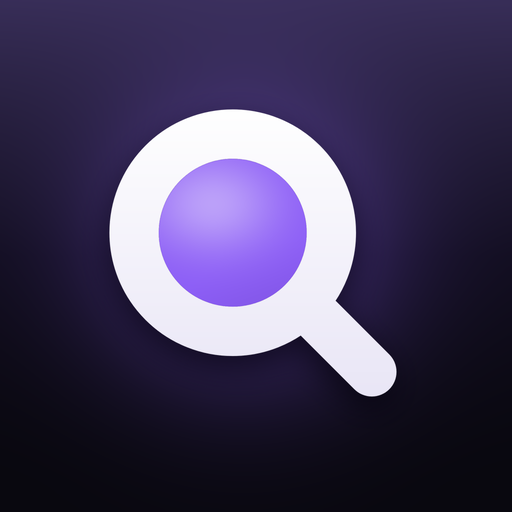
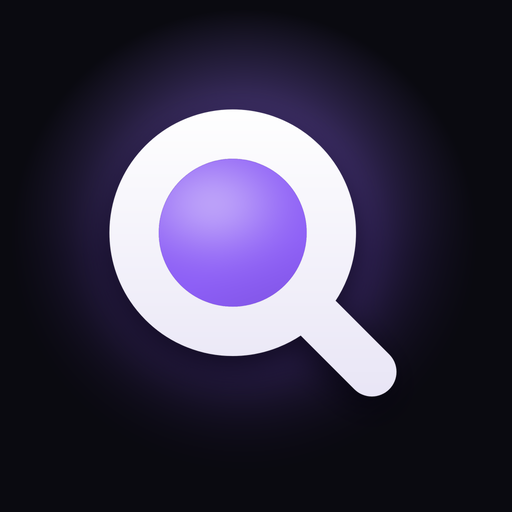
Uygulama açılışı: açılış ekranında kare yok, her kurulumda tanıtım + il seçimi, açılışta takılma giderildi
Claude-Session: https://claude.ai/code/session_01DgUC4EpyTiTxeH42sTdKUw

Changed region(s): [[0.0, 0.0, 1.0, 0.5]]

diff --git a/app.js b/app.js
@@ -24,7 +24,9 @@ const BIG = /congresium|cso ada|jolly joker|if performance|ankara arena|bilkent|
 const PRICE_MAX_H = 36;
 
 /* ---------- Tarih yardımcıları (İstanbul saati) ---------- */
-const nowIST = () => { const p = Object.fromEntries(new Intl.DateTimeFormat("en-CA", { timeZone: "Europe/Istanbul", year: "numeric", month: "2-digit", day: "2-digit", hour: "2-digit", minute: "2-digit", hourCycle: "h23" }).formatToParts(new Date()).map((x) => [x.type, x.value])); return { d: `${p.year}-${p.month}-${p.day}`, hm: `${p.hour}:${p.minute}` }; };
+// saat biçimleyici bir kez kurulur (her çağrıda kurmak açılışta takılma yapıyordu)
+const ISTF = new Intl.DateTimeFormat("en-CA", { timeZone: "Europe/Istanbul", year: "numeric", month: "2-digit", day: "2-digit", hour: "2-digit", minute: "2-digit", hourCycle: "h23" });
+const nowIST = () => { const p = Object.fromEntries(ISTF.formatToParts(new Date()).map((x) => [x.type, x.value])); return { d: `${p.year}-${p.month}-${p.day}`, hm: `${p.hour}:${p.minute}` }; };
 const pd = (s) => new Date(s + "T12:00:00");
 const addD = (s, n) => { const d = pd(s); d.setDate(d.getDate() + n); return d.toISOString().slice(0, 10); };
 const dShort = (s) => { const d = pd(s); return `${GUNK[d.getDay()]} ${d.getDate()} ${AYK[d.getMonth()]}`; };
@@ -59,18 +61,19 @@ const jget = (u) => fetch(u, { cache: "no-cache" }).then((r) => (r.ok ? r.json()
 async function boot() {
   const [cx, top] = await Promise.all([jget("data/cities.json"), jget("data/one-cikan.json")]);
   if (cx?.cities) CIX = cx.cities; DATA.top = top?.events || []; DATA.boot = true; DATA.venues = DATA.venues || {};
-  jget("data/venues.json").then((vn) => { if (vn) DATA.venues = vn.venues || vn; });
-  setTimeout(() => venueTr(), 2500);
-  // kayıtlı il varsa verisini hemen arkada indirmeye başla (devam edince hazır olsun)
-  const sv = store.get("nvny-city"); if (sv && CITIES.find((c) => c.id === sv && c.live)) prefetch(sv);
+  // Açılışta yalnızca il listesi ve öne çıkanlar; mekân konumları ve il verisi gerektiğinde (il açılınca) iner — açılış takılmasın.
+  const sv = store.get("nvny-city"), first = (standalone && !store.get("nvny-app-ilk")) || !store.get("nvny-intro");
+  if (!first && sv && CITIES.find((c) => c.id === sv && c.live)) prefetch(sv);
 }
 /* Ankara: data/events.json + films.json + buzz.json · diğer iller: data/c/<il>.json + data/c/<il>-films.json */
 const cityLoads = {}, pre = {};
 function prefetch(city) { if (pre[city] || DATA.city === city) return; const ank = city === "ankara";
   pre[city] = Promise.all([jget(ank ? "data/events.json" : `data/c/${city}.json`), jget(ank ? "data/films.json" : `data/c/${city}-films.json`), ank ? jget("data/buzz.json") : null]); }
 function loadCity(city) { return (cityLoads[city] ||= load(city).catch((e) => { delete cityLoads[city]; throw e; })); }
+let venP = null;
 async function load(city) {
   const ank = city === "ankara";
+  if (ank) venP ||= jget("data/venues.json").then((vn) => { if (vn) DATA.venues = vn.venues || vn; }); else venueTr();
   prefetch(city); const [ev, fl, bz] = await pre[city]; delete pre[city];
   DATA.base = ev?.baseline; DATA.updated = ev?.updated; DATA.films = fl; DATA.buzz = bz || {};
   const fresh = (x) => !!(x.price && !x.est && x.seen && x.seen !== DATA.base && (Date.now() - Date.parse(x.seen)) / 36e5 <= PRICE_MAX_H);
@@ -222,8 +225,10 @@ function storyInit() {
 let ACX = null, lastTick = 0, NOISE = null;
 const sesOn = () => store.get("nvny-ses") !== "0";
 const ac = () => { ACX ||= new (window.AudioContext || window.webkitAudioContext)(); if (ACX.state === "suspended") ACX.resume?.()?.catch?.(() => {}); return ACX; };
+let acted = false; // ses motoru ancak ilk dokunuştan sonra kurulur (açılışta kurmak takılma yapıyordu; tarayıcı zaten çaldırmaz)
+["pointerdown", "keydown", "touchstart"].forEach((n) => addEventListener(n, () => { acted = true; }, { once: true, passive: true, capture: true }));
 function blip({ f = 2200, f2 = 0, body = 0, vol = .1, dur = .014, noise = .5, hp = 2500 } = {}) {
-  if (!sesOn()) return;
+  if (!sesOn() || !acted) return;
   try {
     const A = ac(), t = A.currentTime, out = A.createGain(); out.gain.value = vol; out.connect(A.destination);
     // 1) metalik çıt: süzülmüş çok kısa hışırtı (ilk 3 ms)
@@ -297,7 +302,7 @@ function viewCities() {
     }
     if (n !== cur && lis[n]) { lis[cur]?.classList.remove("on"); cur = Math.max(0, Math.min(n, lis.length - 1)); lis[cur].classList.add("on"); wl.setAttribute("aria-activedescendant", lis[cur].id);
       const c = L[cur]; msg.hidden = true; if (drawn) tick();
-      clearTimeout(pfT); if (c?.live) pfT = setTimeout(() => prefetch(c.id), 450); }
+      clearTimeout(pfT); if (c?.live && acted) pfT = setTimeout(() => prefetch(c.id), 450); } // kullanıcı çarka dokunmadan veri inmez (açılış akıcı)
   };
   const draw = (list) => { L = list; cur = -1; drawn = false;
     wl.innerHTML = list.map((c, k) => `<li id="w${k}" role="option" class="${c.live ? "" : "soon"}"><b>${esc(c.name)}</b></li>`).join("");
@@ -313,7 +318,9 @@ function viewCities() {
   ok.addEventListener("click", () => go(L[cur]));
   V.addEventListener("click", (ev) => { const a = ev.target.closest("[data-city]"); if (a) store.set("nvny-city", a.dataset.city); });
   const idle = window.requestIdleCallback || ((f) => setTimeout(f, 120));
-  idle(() => { const el = $("#csl"); if (!el) return; el.outerHTML = `${T.length ? `<h2 class="cs-t">Türkiye'de bu hafta öne çıkanlar</h2>${stories(T, (e) => `#/${e.city}/e/${encodeURIComponent(slugOf(e))}`, { cityTag: true })}` : ""}${appPromo()}`; storyInit(); }, { timeout: 900 });
+  const csl = () => idle(() => { const el = $("#csl"); if (!el) return; el.outerHTML = `${T.length ? `<h2 class="cs-t">Türkiye'de bu hafta öne çıkanlar</h2>${stories(T, (e) => `#/${e.city}/e/${encodeURIComponent(slugOf(e))}`, { cityTag: true })}` : ""}${appPromo()}`; storyInit(); }, { timeout: 900 });
+  // tanıtım açıksa arkadaki bölüm tanıtım kapanınca kurulur (açılış akıcı olsun)
+  if ($(".intro") || (!store.get("nvny-intro") && !store.get("nvny-city")) || (standalone && !store.get("nvny-app-ilk"))) addEventListener("nvny-intro-done", csl, { once: true }); else csl();
   draw(ALL);
   // açılışta kayıtlı ile (yoksa en kalabalık ile) kendiliğinden gel
   const start = ALL.indexOf(saved || liveC[0]); if (start > 0) to(start, false); paint();
@@ -699,7 +706,7 @@ function viewTakip(city) {
 
 /* Uygulamayı indirip ilk kez açana: "HOŞ GELDİNİZZZ" bildirimi (izin varsa hemen; yoksa önce kısa bir soru) */
 function welcomeApp() {
-  if (!standalone || store.get("nvny-hosgeldin")) return;
+  if (!standalone || store.get("nvny-hosgeldin") || $(".intro")) return; // tanıtım açıksa bitince çağrılır
   const city = store.get("nvny-city") || "ankara";
   if (notifOn()) { store.set("nvny-hosgeldin", "1"); swUp().then(() => notify("HOŞ GELDİNİZZZ 🎉", "Artık şehrinde ne var ne yok hep cebinde 😍 Takip ettiğin etkinlikte bir şey değişirse ilk sen duyarsın, günü gelince de “Hadi, bugün o gün!” diye haber veririz 🎉", `/#/${city}`, "hosgeldin")); return; }
   if (!NOTIF || Notification.permission === "denied" || store.get("nvny-hosgeldin-sor")) return;
@@ -709,7 +716,7 @@ function welcomeApp() {
     sh.querySelector("[data-ok]").addEventListener("click", () => { sh.close(); askNotif(city); });
   }, 1200);
 }
-addEventListener("appinstalled", () => { try { localStorage.removeItem("nvny-hosgeldin-sor"); } catch {} });
+addEventListener("appinstalled", () => { try { localStorage.removeItem("nvny-hosgeldin-sor"); localStorage.removeItem("nvny-app-ilk"); localStorage.removeItem("nvny-hosgeldin"); } catch {} });
 /* Uygulama açılınca: takip edilenleri güncel veriyle karşılaştır, değişikliği göster */
 function followBoot() {
   const city = DATA.city || store.get("nvny-city") || "ankara";
@@ -777,8 +784,10 @@ function route() {
   const saved = store.get("nvny-city");
   if (P[0] === "bilgi") viewBilgi(P[1]);
   else if (!P.length) { // ilk girişte tanıtım + il seçimi; sonra kayıtlı ille açılır (kullanıcı isteği, 15.11.2026 22:43). İl üstteki düğmeden (#/?sec=1) değişir.
-    if (!Q.sec && saved && CITIES.find((c) => c.id === saved && c.live)) { location.replace(`#/${saved}`); return; }
-    viewCities(); if (!saved && !Q.sec) intro(); }
+    // uygulama her kurulduğunda ilk açılış sıfırdan: tanıtım + il seçimi (tarayıcıda seçilmiş il kendiliğinden açılmaz; kullanıcı, 23:19)
+    const appFirst = standalone && !store.get("nvny-app-ilk");
+    if (!Q.sec && !appFirst && saved && CITIES.find((c) => c.id === saved && c.live)) { location.replace(`#/${saved}`); return; }
+    viewCities(); if ((!saved && !Q.sec) || appFirst) intro(appFirst); }
   else {
     const city = P[0]; if (!CITIES.find((c) => c.id === city && c.live)) { location.replace("#/"); return; }
     store.set("nvny-city", city);
@@ -808,7 +817,7 @@ document.addEventListener("click", (ev) => { const b = ev.target.closest("[data-
 /* ---------- Dokunsal geri bildirim: Android'de titreşim; iPhone'da (iOS 18+) gizli iOS anahtarı ile sistemin kendi "tık"ı ---------- */
 let HX = null;
 function haptic(ms = 6) {
-  if (!sesOn()) return;
+  if (!sesOn() || !acted) return;
   try {
     if (navigator.vibrate) { navigator.vibrate(ms); return; }
     if (!isIOS) return;
@@ -821,7 +830,7 @@ function haptic(ms = 6) {
 /* ---------- Görünüm: gece göz yormayan mod ve yazı boyutu (Kişiselleştir > Görünüm) ---------- */
 const ZOOMS = [[1, "Normal"], [1.1, "Büyük"], [1.2, "Daha büyük"]];
 function applyLook() {
-  const h = +new Intl.DateTimeFormat("en-GB", { timeZone: "Europe/Istanbul", hour: "2-digit", hourCycle: "h23" }).format(new Date());
+  const h = +nowIST().hm.slice(0, 2);
   const on = store.get("nvny-gece") !== "0" && (h >= 22 || h < 7);
   document.documentElement.classList.toggle("gece", on);
   const z = +(store.get("nvny-yazi") || 1); document.documentElement.style.setProperty("--zm", z);
@@ -1053,8 +1062,8 @@ function tonightSheet(city) {
 }
 
 /* ---------- Açılış tanıtımı (yalnızca ilk girişte; sonra kayıtlı ille açılır, il üstteki düğmeden değişir) ---------- */
-function intro() {
-  if (store.get("nvny-intro") || $(".intro")) return;
+function intro(force) {
+  if ((!force && store.get("nvny-intro")) || $(".intro")) return;
   const W = [...new Set((DATA.top || []).map((e) => e.img).filter(Boolean))].slice(0, 12);
   const S = [
     ["81 il · tek uygulama", "Şehrinde ne var<br><em>ne yok, hepsi burada.</em>", "Konserler, tiyatrolar, stand-up'lar, festivaller ve sinema seansları; afiş afiş, gün gün."],
@@ -1069,7 +1078,7 @@ function intro() {
     <div class="in-f"><div class="in-d">${S.map((_, i) => `<i${i ? "" : ' class="on"'}></i>`).join("")}</div><button type="button" class="in-go">Devam</button></div>`;
   document.body.append(o); document.body.style.overflow = "hidden"; requestAnimationFrame(() => o.classList.add("on"));
   const sc = $(".in-s", o), dots = $$(".in-d i", o), go = $(".in-go", o); let cur = 0;
-  const done = () => { store.set("nvny-intro", "1"); o.classList.remove("on"); document.body.style.overflow = ""; setTimeout(() => o.remove(), 400); setTimeout(() => $("#cq")?.focus({ preventScroll: true }), 420); };
+  const done = () => { store.set("nvny-intro", "1"); if (standalone) store.set("nvny-app-ilk", "1"); setTimeout(welcomeApp, 900); setTimeout(() => dispatchEvent(new Event("nvny-intro-done")), 450); o.classList.remove("on"); document.body.style.overflow = ""; setTimeout(() => o.remove(), 400); setTimeout(() => $("#cq")?.focus({ preventScroll: true }), 420); };
   sc.addEventListener("scroll", () => { const i = Math.round(sc.scrollLeft / sc.clientWidth); if (i !== cur) { cur = i; dots.forEach((d, k) => d.classList.toggle("on", k === i)); go.textContent = i === S.length - 1 ? "Şehrimi seçeyim" : "Devam"; tick(); } }, { passive: true });
   go.addEventListener("click", () => { haptic(6); if (cur >= S.length - 1) return done(); sc.scrollTo({ left: (cur + 1) * sc.clientWidth, behavior: "smooth" }); });
   $(".in-x", o).addEventListener("click", done);

diff --git a/indir/index.html b/indir/index.html
@@ -1,5 +1,5 @@
 <!doctype html>
-<html lang="tr" data-ver="2026-11-15-2322">
+<html lang="tr" data-ver="2026-11-15-2330">
 <head>
 <meta charset="utf-8">
 <meta name="viewport" content="width=device-width,initial-scale=1,viewport-fit=cover">
@@ -10,8 +10,8 @@
 <meta property="og:image" content="https://nevarneyok.net.tr/icons/og.png">
 <meta name="theme-color" content="#0a0a10">
 <link rel="manifest" href="../manifest.webmanifest">
-<link rel="icon" type="image/png" sizes="192x192" href="../icons/icon-192.png?v=2">
-<link rel="apple-touch-icon" href="../icons/apple-touch-icon.png?v=2">
+<link rel="icon" type="image/png" sizes="192x192" href="../icons/icon-192.png?v=3">
+<link rel="apple-touch-icon" href="../icons/apple-touch-icon.png?v=3">
 <meta name="apple-mobile-web-app-capable" content="yes">
 <meta name="apple-mobile-web-app-title" content="Ne Var Ne Yok">
 <link rel="preconnect" href="https://fonts.googleapis.com"><link rel="preconnect" href="https://fonts.gstatic.com" crossorigin>
@@ -212,7 +212,7 @@ kbd{display:inline-block;padding:1px 8px;border-radius:7px;background:rgba(255,2
 <header class="top"><div class="in"><a href="../" aria-label="Ne Var Ne Yok ana sayfa"><img src="../brand/logo.png" alt="Ne Var Ne Yok" width="1301" height="653"></a><a class="go" href="../">Siteye git<svg viewBox="0 0 24 24" aria-hidden="true"><path d="M9 5l7 7-7 7" fill="none" stroke="currentColor" stroke-width="2.8" stroke-linecap="round" stroke-linejoin="round"/></svg></a></div></header>
 <section class="v">
   <main class="hero"><div class="card">
-    <div class="ic"><img src="../icons/icon-512.png?v=2" alt="" width="112" height="112"></div>
+    <div class="ic"><img src="../icons/icon-512.png?v=3" alt="" width="112" height="112"></div>
     <h1>Ne var ne yok,<br><em>artık cebinde.</em></h1>
     <div class="cta">
       <button class="btn dl" id="go" type="button"><span class="shw"><i></i></span><span class="sp" aria-hidden="true"></span><span class="bi" aria-hidden="true"><svg viewBox="0 0 24 24"><path d="M12 5v10m-4.5-4.5L12 15l4.5-4.5M6 19h12" fill="none" stroke="currentColor" stroke-width="2.6" stroke-linecap="round" stroke-linejoin="round"/></svg></span><span id="gol">Uygulamayı indir</span></button>
@@ -248,9 +248,9 @@ kbd{display:inline-block;padding:1px 8px;border-radius:7px;background:rgba(255,2
   <h2 class="rv d1">Hiçbir şeyi<br><em>kaçırma.</em></h2>
   <p class="d rv d2">Takip ettiğin etkinliğin saati mi değişti, biletler yeniden mi satışa çıktı? <b>İlk sen duyarsın.</b> Günü gelince de biz hatırlatırız.</p>
   <div class="vis nt">
-    <div class="x rv"><img src="../icons/icon-192.png?v=2" alt=""><div class="t"><span><b style="all:unset">NE VAR NE YOK</b><i style="font-style:normal">şimdi</i></span><b>Yarın büyük gün ✨</b><small>Takip ettiğin konser yarın akşam. Biletin hazır mı?</small></div></div>
-    <div class="x rv d1"><img src="../icons/icon-192.png?v=2" alt=""><div class="t"><span><b style="all:unset">NE VAR NE YOK</b><i style="font-style:normal">2 sa önce</i></span><b>Müjde! 🎉</b><small>Takip ettiğin oyunun biletleri yeniden satışta.</small></div></div>
-    <div class="x rv d2"><img src="../icons/icon-192.png?v=2" alt=""><div class="t"><span><b style="all:unset">NE VAR NE YOK</b><i style="font-style:normal">dün</i></span><b>Saat değişti ⏰</b><small>Takip ettiğin etkinliğin saati güncellendi. Takvimini unutma!</small></div></div>
+    <div class="x rv"><img src="../icons/icon-192.png?v=3" alt=""><div class="t"><span><b style="all:unset">NE VAR NE YOK</b><i style="font-style:normal">şimdi</i></span><b>Yarın büyük gün ✨</b><small>Takip ettiğin konser yarın akşam. Biletin hazır mı?</small></div></div>
+    <div class="x rv d1"><img src="../icons/icon-192.png?v=3" alt=""><div class="t"><span><b style="all:unset">NE VAR NE YOK</b><i style="font-style:normal">2 sa önce</i></span><b>Müjde! 🎉</b><small>Takip ettiğin oyunun biletleri yeniden satışta.</small></div></div>
+    <div class="x rv d2"><img src="../icons/icon-192.png?v=3" alt=""><div class="t"><span><b style="all:unset">NE VAR NE YOK</b><i style="font-style:normal">dün</i></span><b>Saat değişti ⏰</b><small>Takip ettiğin etkinliğin saati güncellendi. Takvimini unutma!</small></div></div>
   </div>
 </section>
 
@@ -280,7 +280,7 @@ kbd{display:inline-block;padding:1px 8px;border-radius:7px;background:rgba(255,2
 </section>
 
 <section class="sec end">
-  <div class="ic rv"><img src="../icons/icon-512.png?v=2" alt="" width="112" height="112"></div>
+  <div class="ic rv"><img src="../icons/icon-512.png?v=3" alt="" width="112" height="112"></div>
   <h2 class="rv d1">Bak bakalım<br><em>ne var ne yok.</em></h2>
   <div class="cta rv d2"><button class="btn dl" type="button"><span class="shw"><i></i></span><span class="bi" aria-hidden="true"><svg viewBox="0 0 24 24"><path d="M12 5v10m-4.5-4.5L12 15l4.5-4.5M6 19h12" fill="none" stroke="currentColor" stroke-width="2.6" stroke-linecap="round" stroke-linejoin="round"/></svg></span><span>Uygulamayı indir</span></button></div>
   <a class="site rv d3" href="../">ya da önce siteye göz at</a>
@@ -305,11 +305,12 @@ kbd{display:inline-block;padding:1px 8px;border-radius:7px;background:rgba(255,2
   /* Kurulum durumu (kullanıcı isteği, 23:18: "hemen kuruldu diyor ama inmiyor; inene kadar indiriliyor desin"):
      "Yükle"ye basınca → İndiriliyor… (dönen halka). Tarayıcının "appinstalled" haberi indirme bitmeden gelebilir; bu yüzden
      "Kuruldu" ancak telefon uygulamayı gerçekten tanıyınca (getInstalledRelatedApps) ya da bu yoksa haberden 20 sn sonra yazılır. */
+  addEventListener("appinstalled",function(){try{localStorage.removeItem("nvny-app-ilk");localStorage.removeItem("nvny-hosgeldin");localStorage.removeItem("nvny-hosgeldin-sor")}catch(e){}});
   var inst=0,doneShown=false;
   function setBusy(){B.classList.remove("done");B.classList.add("busy");L.textContent="İndiriliyor…";PL.textContent="Telefonun uygulamayı indiriyor, birkaç saniye sürebilir…"}
   function setDone(){if(doneShown)return;doneShown=true;B.classList.remove("busy");B.classList.add("done");L.textContent="Kuruldu ✓";PL.textContent="Ana ekranındaki Ne Var Ne Yok simgesine dokun";snd.ok();
     show("<p><b>Kuruldu! 🎉</b> Ne Var Ne Yok artık telefonunda. Ana ekranında (ya da uygulamalarının arasında) simgesine dokunarak aç; açınca bir sürpriz var.</p>")}
-  function watchInstall(){if(inst)return;var t0=Date.now(),got=false;addEventListener("appinstalled",function(){got=true;ev("uygulama-kuruldu","Uygulama kuruldu")},{once:true});
+  function watchInstall(){if(inst)return;var t0=Date.now(),got=false;addEventListener("appinstalled",function(){got=true;try{localStorage.removeItem("nvny-app-ilk");localStorage.removeItem("nvny-hosgeldin");localStorage.removeItem("nvny-hosgeldin-sor")}catch(e){}ev("uygulama-kuruldu","Uygulama kuruldu")},{once:true});
     inst=setInterval(function(){var age=Date.now()-t0;
       if(navigator.getInstalledRelatedApps){navigator.getInstalledRelatedApps().then(function(L2){if(L2&&L2.length){clearInterval(inst);setDone()}}).catch(function(){})}
       if(got&&age>20000&&!navigator.getInstalledRelatedApps){clearInterval(inst);setDone()}

diff --git a/index.html b/index.html
@@ -28,12 +28,12 @@
 <meta name="apple-mobile-web-app-status-bar-style" content="black-translucent">
 <meta name="apple-mobile-web-app-title" content="Ne Var Ne Yok">
 <link rel="manifest" href="manifest.webmanifest">
-<link rel="icon" type="image/png" sizes="192x192" href="icons/icon-192.png?v=2">
-<link rel="apple-touch-icon" href="icons/apple-touch-icon.png?v=2">
+<link rel="icon" type="image/png" sizes="192x192" href="icons/icon-192.png?v=3">
+<link rel="apple-touch-icon" href="icons/apple-touch-icon.png?v=3">
 <link rel="preconnect" href="https://fonts.googleapis.com">
 <link rel="preconnect" href="https://fonts.gstatic.com" crossorigin>
-<link rel="stylesheet" href="https://fonts.googleapis.com/css2?family=Archivo:wdth,wght@62..125,500..900&family=Inter+Tight:wght@400;500;600;700;800&family=Bricolage+Grotesque:opsz,wdth,wght@12..96,75..100,700..800&display=swap">
-<link rel="stylesheet" href="https://fonts.googleapis.com/css2?family=Poppins:wght@300;800&text=onesidby&display=swap">
+<link rel="stylesheet" media="print" onload="this.media='all'" href="https://fonts.googleapis.com/css2?family=Archivo:wdth,wght@62..125,500..900&family=Inter+Tight:wght@400;500;600;700;800&family=Bricolage+Grotesque:opsz,wdth,wght@12..96,75..100,700..800&display=swap">
+<link rel="stylesheet" media="print" onload="this.media='all'" href="https://fonts.googleapis.com/css2?family=Poppins:wght@300;800&text=onesidby&display=swap">
 <style>
 /* ============ NE VAR NE YOK · YENİ TASARIM ============
    Düz koyu zemin #0a0a10, vurgu düz mor #8b5cf6 (logonun son hali, 15.11.2026); renk afişlerden gelir. Düğmeler beyaz, vurgu mor (--pur). */
@@ -709,6 +709,11 @@ html.gece body::after{content:"";position:fixed;inset:0;z-index:9999;pointer-eve
 .vfl svg{width:16px;height:16px}.vfl.on{background:var(--pur);color:#fff}
 .gapp{display:flex;align-items:center;gap:12px;margin-top:18px;padding:12px 14px;border-radius:18px;background:var(--lg),rgba(139,92,246,.12);box-shadow:inset 0 0 0 .5px rgba(255,255,255,.2),inset 0 1px 0 rgba(255,255,255,.14)}
 .gapp img{flex:none;width:40px;height:40px;border-radius:10px}.gapp b{display:block;font:800 15px var(--f)}.gapp small{display:block;color:var(--t2);font-size:13px}
+/* tanıtım duvarı: küçük çizilip büyütülür (ucuz bulanıklık; açılışta takılma olmasın) */
+.in-w{inset:auto;left:-12%;top:-12%;width:31%;height:31%;transform:rotate(-8deg) scale(3.9);transform-origin:0 0;filter:blur(3.5px) saturate(1.3);gap:3px}
+.in-w img{border-radius:4px}
+.pwall{inset:auto;left:-12%;top:-12%;width:31%;height:31%;transform:rotate(-6deg) scale(3.9);transform-origin:0 0;filter:blur(4px);gap:2px}
+.pwall img{border-radius:3px}
 </style>
 </head>
 <body>
@@ -734,9 +739,9 @@ window.NVNY_SITE={contact:"contact.openmind.vision@gmail.com",instagram:"https:/
 </script>
 <script>/* Kendini yenileme (kullanıcı, 23:01/23:06): taze kopyadaki app.js sürümü farklıysa YENİ ADRESLE (?_v=sürüm) bir kez açılır.
    Adreste aynı sürüm zaten varsa bir daha denenmez: önbellek eski kopyayı verse de döngüye girip beyaz ekranda kalmaz. */
-addEventListener("DOMContentLoaded",function(){try{var m=document.querySelector('script[src^="app.js?v="]'),me=m&&m.getAttribute("src");if(!me||!window.fetch)return;
+addEventListener("load",function(){setTimeout(function(){try{var m=document.querySelector('script[src^="app.js?v="]'),me=m&&m.getAttribute("src");if(!me||!window.fetch)return;
 fetch("index.html?_="+Date.now(),{cache:"no-store"}).then(function(r){return r.ok?r.text():""}).then(function(t){var x=t.match(/src="app\.js\?v=([^"]+)"/);if(!x||me==="app.js?v="+x[1])return;
-var q=location.search;if(q.indexOf("_v="+x[1])>=0)return;q=q.replace(/[?&]_v=[^&]*/g,"");location.replace(location.pathname+(q?q+"&":"?")+"_v="+x[1]+location.hash)}).catch(function(){})}catch(e){}});</script>
+var q=location.search;if(q.indexOf("_v="+x[1])>=0)return;q=q.replace(/[?&]_v=[^&]*/g,"");location.replace(location.pathname+(q?q+"&":"?")+"_v="+x[1]+location.hash)}).catch(function(){})}catch(e){}},2500)});</script>
 <script src="takip.js?v=7"></script>
 <script src="app.js?v=f7e83d62d0"></script>
 <script data-goatcounter="https://nevarneyok.goatcounter.com/count" async src="https://gc.zgo.at/count.js"></script>

diff --git a/brand/make-assets.py b/brand/make-assets.py
@@ -24,7 +24,7 @@ lg = cut(f'{H}/nevarneyok-logo.png', f'{H}/logo.png'); cut(f'{H}/nevarneyok-simg
 # mor camın sol üstüne cam parlaması, alt kenarına hafif derinlik. "any" simgeler kenar boşluklu yuvarlatılmış kare (masaüstü
 # ve Android rıhtımında gerçek uygulama simgesi gibi), apple-touch ve maskable tam kare (sistem kendisi keser).
 from PIL import ImageFilter
-def glass_icon(S=1024):
+def glass_icon(S=1024, fade=False):
     yy, xx = np.mgrid[0:S, 0:S].astype(np.float64) / S
     top, bot = np.array([38., 28, 70]), np.array([9., 8, 15])
     t = np.clip(yy * 1.05, 0, 1)[..., None]; img = top * (1 - t) ** 1.6 + bot * (1 - (1 - t) ** 1.6)
@@ -32,6 +32,9 @@ def glass_icon(S=1024):
     g = np.exp(-(((xx - cx) ** 2 + (yy - cy) ** 2) / (2 * .2 ** 2)))[..., None]
     img = img + np.array([139., 92, 246]) * .42 * g
     img = img + 255 * np.clip(.07 * (1 - yy / .5), 0, None)[..., None]          # üstte ince parlaklık
+    if fade:  # yalnızca zemin kenarlara doğru uygulamanın zeminine erir; büyüteç ve gölgesi olduğu gibi üstüne konur
+        r = np.sqrt((xx - .476) ** 2 + (yy - .476) ** 2); k = np.clip((r - .24) / .22, 0, 1)[..., None] ** 1.3
+        img = img * (1 - k) + np.array([10., 10, 16]) * k
     base = Image.fromarray(np.clip(img, 0, 255).astype(np.uint8)).convert('RGBA')
     mk = Image.open(f'{H}/mark.png').convert('RGBA'); w = round(S * 1223 / 2160); mk = mk.resize((w, w), Image.LANCZOS)
     pos = round(S * (462 - 6) / 2160)
@@ -59,7 +62,10 @@ def squircle(img, margin=.06, n=5):
     hl.putalpha(Image.fromarray(np.clip(edge * .22 * np.clip(1.2 - yy[::4, ::4] * 2, .25, 1), 0, 255).astype(np.uint8)))
     out = Image.alpha_composite(out, hl); out.putalpha(Image.fromarray(np.minimum(np.asarray(out)[..., 3], np.asarray(M)))); return out
 G = glass_icon(); Q = squircle(G)
-for f, w, im in [('icon-512.png', 512, Q), ('icon-192.png', 192, Q), ('apple-touch-icon.png', 180, G), ('icon-maskable-512.png', 512, G)]:
+# Maskable (açılış ekranı ve Android ana ekranı): telefon açılışta bu simgeyi kare olarak gösterebiliyor (kullanıcı, 23:19: "açılış kötü").
+# Kenarlar uygulamanın zemin rengine (#0a0a10) yumuşakça erir; açılışta köşeli kare görünmez, yalnızca ışıklı büyüteç kalır.
+M = glass_icon(fade=True)
+for f, w, im in [('icon-512.png', 512, Q), ('icon-192.png', 192, Q), ('apple-touch-icon.png', 180, G), ('icon-maskable-512.png', 512, M)]:
     o = im.resize((w, w), Image.LANCZOS); (o if im is Q else o.convert('RGB')).save(f'{R}/icons/{f}', optimize=True)
 og = Image.new('RGB', (1200, 630), (11, 10, 16)); L = lg.resize((680, int(680 * lg.height / lg.width)), Image.LANCZOS)
 og.paste(L, ((1200 - L.width) // 2, (630 - L.height) // 2), L); og.save(f'{R}/icons/og.png', optimize=True)

diff --git a/CLAUDE.md b/CLAUDE.md
@@ -19,7 +19,7 @@ Kullanıcıyla her zaman Türkçe konuş.
 - **Filtre ekranı (kullanıcı isteği, 15.11.2026 13:00):** akordeon yok, Apple uygulaması gibi bütün bölümler açık: Ne zaman (kaydırmalı düğmeler + gün kartları), Kategori ve Saat (simgeli kutucuklar, sayılı, mor parlar), Fiyat (düğmeler), Kimler için (iOS segment), Semt ve Mekân (cam kart), Diğer (iOS anahtar listesi); altta canlı "X etkinliği göster".
 - **Instagram'dan /indir (kullanıcı isteği, 15.11.2026):** uygulama içi tarayıcı (Instagram vb.) açılınca sayfa kendiliğinden gerçek tarayıcıya geçer: Android'de Chrome (`intent://…?kur=1`), iPhone'da Safari (`x-safari-https://…?kur=1`, iOS 17+); oturumda bir kez (`nvny-yonlendi`). `?kur=1` ile gelende kurulum hazır olunca ekranın tamamı "Yükle" kartı olur (`#kurx`), herhangi bir dokunuş tarayıcının yükleme penceresini açar (tarayıcı kurulumu dokunuşsuz başlatmaya izin vermez).
 - **Bildirim dili (kullanıcı isteği, 15.11.2026 17:51):** sıcak ve samimi, emojili kısa cümleler; "dürtmek" gibi sözler yok (`takip.js` STB ve mesajlar, `welcomeApp`). **Bildirim sayısı az olmasın (18:07):** takip edilen etkinlikte 1 hafta, 3 gün, 1 gün önce, o gün, başlamadan 3 saat içinde "Az kaldı", ertesi gün "Dün nasıldı?"; ayrıca günde en çok bir öneri (`NV.digest`): Pzt haftanın planı, Çar bu akşam, Per-Cum hafta sonu, Cmt bugün, Paz pazar keyfi (Salı yok).
-- **Sıvı cam, ortalı il seçimi, değişen arka plan, yeni simge (kullanıcı isteği, 15.11.2026 21:09):** il seçimi (logo, cam panel, "öne çıkanlar" başlığı) her ekranda ortada; panel ve alt sekme çubuğu Apple "sıvı cam" (`--lg` degrade + `--lgk` kenar/ışık/gölge). Alt sekme çubuğu iOS 26 gibi **yüzen cam kapsül**, seçili sekmenin arkasında cam hap. Şehir sayfasının arkasındaki bulanık renk (`.wash`, iki katman) **o an görünen kayan sayfanın afişine** yumuşakça geçer (`washTo`, yalnızca opacity); kayan sayfa afişleri tembel yüklenmez. **Uygulama simgesi:** büyüteç birebir, yeri/boyu aynı; yalnızca ışık eklendi (koyu mor degrade zemin, merceğin arkasında mor ışık, mor cama parlama, büyüteç gölgesi) — `brand/make-assets.py` → `glass_icon()`; "any" simgeler kenar boşluklu yuvarlak kare, apple-touch ve maskable tam kare. Simge adresleri `?v=2` (kurulu uygulamalar yenilensin).
+- **Sıvı cam, ortalı il seçimi, değişen arka plan, yeni simge (kullanıcı isteği, 15.11.2026 21:09):** il seçimi (logo, cam panel, "öne çıkanlar" başlığı) her ekranda ortada; panel ve alt sekme çubuğu Apple "sıvı cam" (`--lg` degrade + `--lgk` kenar/ışık/gölge). Alt sekme çubuğu iOS 26 gibi **yüzen cam kapsül**, seçili sekmenin arkasında cam hap. Şehir sayfasının arkasındaki bulanık renk (`.wash`, iki katman) **o an görünen kayan sayfanın afişine** yumuşakça geçer (`washTo`, yalnızca opacity); kayan sayfa afişleri tembel yüklenmez. **Uygulama simgesi:** büyüteç birebir, yeri/boyu aynı; yalnızca ışık eklendi (koyu mor degrade zemin, merceğin arkasında mor ışık, mor cama parlama, büyüteç gölgesi) — `brand/make-assets.py` → `glass_icon()`; "any" simgeler kenar boşluklu yuvarlak kare, apple-touch tam kare, maskable kenarları zemine eriyen kare. Simge adresleri `?v=3` (kurulu uygulamalar yenilensin).
 - **/indir yeniden (kullanıcı isteği, 15.11.2026 21:16: "tek buton, ek bir şey verme; altta afişler saat kordonu gibi yatay, ortaya gelen büyüsün, Apple tık sesi"):** tek ekran: logo + "Siteye git", simge, "NE VAR NE YOK, ARTIK CEBİNDE.", tek **"Uygulamayı indir"** düğmesi ve tek satır (Ücretsiz · 81 il). Özellik kartları ve bilgi şeridi yok. Altta **afiş halkası** (kullanıcı, 21:22: "afişler dairesel sıralansın"): öne çıkanlar + vizyondaki film afişleri bir dairenin çevresine dizili 3B halka, sürekli döner (sürüklenir, fırlatılır); öndeki büyür ve mor parlar, yanlara gidenler dönerek uzaklaşır ve soluklaşır; çevreye sığan kadar afiş (telefonda ~9, masaüstünde ~17) (yalnızca transform/opacity); ortadakinin altında cam etikette kategori · il; her geçişte çark tıkı (ilk dokunuştan sonra; `nvny-ses`). Arka plan rengi ortadaki afişe göre değişir (`.wash`, iki katman; `body` saydam olmalı, yoksa arkada kalır). Kurulum adımları yalnızca gerekince alttan açılan cam panelde. (21:27) Halkada **yalnızca gerçek afişler** (yüklenince oranı 1,28–1,7 olan dikey görseller; sanatçı fotoğrafı/logo elenir, en az 5 kalmazsa hepsi); öndeki seçilmiş gibi belirgin büyür (×1,28), yükselir ve mor çerçeveyle parlar, diğerleri küçülüp kararır. Düğme Apple gibi parlak mor hap (üstte cam parlaklığı, içte derinlik, beyaz yazı, cam daire içinde indirme oku); **basınca bütün sayfa mora döner** (`body.mor`, `.mor-ov`, yalnızca opacity). Halka sayfada biraz daha aşağıda; kısa ekranda sayfa kayar, üst üste binme yok. Instagram yönlendirmesi aynı; **kurulum hazır olan her tarayıcıda** (yalnızca `?kur=1` değil) ayrı kutu açılmaz, **sayfanın kendisi** kurulum ekranı olur (`body.kur`: simge, başlık ve "Yükle" düğmesi cam kartta, halka altta dönmeye devam eder, ekranın herhangi bir yerine dokunmak kurar).
 - **/indir tanıtım sayfası + Apple sesleri (kullanıcı isteği, 15.11.2026 21:35):** afiş halkası **saat kuronu gibi adım adım** döner: her afiş öne gelince ~1,9 sn durur, belirgin büyür (×1,32, yükselir, mor çerçeve), geçince normale döner; sürükleyip bırakınca en yakın afişe oturur; her adımda çark tıkı. Halka ilk ekranın altında. Üstte **sabit cam çubuk**: logo + beyaz **"Siteye git"** hapı. Aşağı kaydırınca Apple ürün sayfası gibi tanıtım (kaydırdıkça belirir, yalnızca transform/opacity; arka plan koyulaşır): 81 il çarkı + gerçek sayılar (`cities.json`), fiyat karşılaştırma ("Örnek görünüm", site adı/fiyat uydurulmaz), bildirimler, sinema (gerçek film afişleri + gün kartları), kişiselleştir kutucukları, "Üyelik yok. Mağaza yok.", en altta "BAK BAKALIM NE VAR NE YOK." ve yine "Uygulamayı indir". **Dokunma ve klavye sesleri** (`app.js` → `snd.key/del/ret/tap`): yazarken iPhone klavyesi gibi yumuşak tık (her harfte perde ±%4), silmede daha pes, boşluk/Enter'da tok; düğme ve bağlantılarda çok kısık tık (kendi sesi olan kontroller hariç); `nvny-ses` ile kapanır. /indir'de de aynı tık.
 - **/indir halka ve şehir çarkı (kullanıcı isteği, 15.11.2026 21:45):** halka her adımda yumuşak eğriyle akar (yavaş başlar, yavaş durur); **tık sesi yalnızca kullanıcı çevirirken** (sürükleme, fırlatma, yatay kaydırma), kendiliğinden dönerken sessiz. Afişlerin altında ayna yansıması (`-webkit-box-reflect`); **mor ışık havuzu ve öndeki afişe mor çerçeve YOK** (kullanıcı sevmedi, 21:57), öndeki yalnızca ince beyaz kenar ve derin gölge; kategori · il etiketi tek ve sabit (`#cap1`, geçişte solup değişir). Tanıtımdaki **şehir çarkı çalışır** (`cityWheel`): üstte uygulamadaki gibi **arama kutusu** ("Yaz ya da aşağıdan seç…", yazdıkça süzer; önce baştan eşleşenler; Enter ilk ili açar), 81 il alfabetik, çevrilince ortadaki büyür (rotateX), kullanıcı çevirirken tık; durunca o ilin **bu haftası** (bugün + 6 gün) ilin kendi veri dosyasından hesaplanır: etkinlik sayısı, en çok 5 kategori sayılarıyla, vizyondaki film sayısı ve "<İl> sayfasını aç →". İptal edilenler sayılmaz. Açılışta İstanbul. **/indir kendini yeniler:** `<html data-ver>` taze kopyayla karşılaştırılır, farklıysa bir kez yenisi yüklenir (Pages 10 dk önbellek); sayfayı her değiştirişte `data-ver`i de değiştir.
@@ -37,6 +37,10 @@ Kullanıcıyla her zaman Türkçe konuş.
   - **Yakınımda** (`nearMe`, Keşfet `sira=yakin`; 22:57: dokununca doğrudan sistemin izin penceresi açılır; izin önceden kapatılmışsa ya da konum bulunamazsa `geoHelp` paneli: cihaza göre tek satırlık yol, "Tekrar dene", "Şehir merkezine göre sırala"; Instagram gibi uygulama içi tarayıcılar konum vermediği için orada doğrudan "Chrome'da aç / Safari'de aç" ile aynı sayfaya geçer): telefon konumu (yalnızca cihazda, gönderilmez) ile mekân uzaklığı; kartta "1,2 km". Ankara `data/venues.json`; diğer 80 il `data/venues-tr.json` (anahtar `<il>|<mekân>`, `geo.mjs` GEO_SCOPE=tr, `sehirler.yml` her çalışmada 150 mekân → birkaç günde dolar).
   - **Simge kısayolları** (manifest `shortcuts`: Bu akşam, Planım, Sinema, Yakınımda; `/?k=…`, `shortcutBoot`). Gerçek ana ekran widget'ı mağaza uygulaması gerektirir; yok.
 - **Ana site kendini yeniler (23:01; 23:06 düzeltme):** `index.html` sayfa yüklenince (DOMContentLoaded) taze kopyadaki `app.js?v=` sürümüne bakar, farklıysa **yeni adresle** (`?_v=<sürüm>`) bir kez açar; adreste o sürüm zaten varsa bir daha denemez (sessionStorage'a güvenilmez, önbellek eski kopyayı verse de döngü/beyaz ekran olmaz). /indir aynı korumayla. **Uygulama içi tarayıcıdan Chrome/Safari'ye geçiş `dis()` ile yapılır** (23:10, kullanıcı: "hâlâ beyaz ekran"): önce görünmez çerçeveyle açılır, Instagram'daki sayfa yerinde kalır (geri dönünce beyaz ekran yok); 1,5 sn içinde uygulama açılmazsa doğrudan geçilir. Geçiş bağlantısında `#` olmaz (`intent://…/?k=yakin&il=<il>#Intent;…;S.browser_fallback_url=…;end`); hedef `shortcutBoot` ile açılır.
+- **Uygulama açılışı (kullanıcı isteği, 15.11.2026 23:19–23:21: "açılış kötü görünüyor; kasma, donma, takılma yok, aksın"; "kaldırıp yeniden yükledim, tanıtım olmadı, direkt Ankara atamasın"):**
+  - **Açılış ekranı:** maskable simgenin zemini kenarlara doğru uygulamanın zeminine (#0a0a10) erir (`glass_icon(fade=True)`); telefon açılışta kare göstermez, yalnızca ışıklı büyüteç. Simge adresleri `?v=3`.
+  - **Her kurulumda ilk açılış sıfırdan:** `appinstalled` (site ve /indir) `nvny-app-ilk`, `nvny-hosgeldin` bayraklarını siler; uygulama (`standalone`) bu bayrak yoksa kayıtlı ile gitmez, tanıtım + il seçimi gösterir; tanıtım bitince bayrak konur. Hoş geldin bildirimi tanıtımdan sonra.
+  - **Açılışta yalnızca gerekenler:** yazı tipleri sayfayı bekletmez (`media="print"` → `all`); il listesi ve öne çıkanlar dışında veri inmez (mekân konumları il açılınca, kayıtlı ilin verisi yalnızca tanıtım yoksa önceden); il çarkı kullanıcı dokunmadan veri indirmez; ses motoru ilk dokunuştan önce kurulmaz (`acted`); saat biçimleyici bir kez kurulur (`ISTF`); tanıtımın ve il seçiminin arkasındaki bulanık afiş duvarları küçük çizilip büyütülür; tanıtım açıkken arkadaki "öne çıkanlar" kurulmaz (`nvny-intro-done`); sayfanın güncellik kontrolü açılıştan 2,5 sn sonra. Ölçüm (4× yavaş işlemci): açılışta yalnızca 2 kısa iş (kod yükleme + ilk çizim, <70 ms), tanıtım kaydırmada 0 takılan kare.
 - **"HOŞ GELDİNİZZZ 🎉" yalnızca bildirim olarak ve yalnızca uygulamayı indirip açana** gider (`welcomeApp`, `html.app`): izin varsa hemen, yoksa önce "Bildirimleri aç" sorusu.
 - **Bütün Türkiye (kullanıcı isteği, 15.11.2026):** 81 il. Ankara eskisi gibi (`update.yml`, 32 kaynak, `data/events.json`). Diğer iller **"Şehirleri güncelle"** (`sehirler.yml`, günde 2 kez: 03:00 ve 14:00): her il ayrı işte yan yana (en çok 20) `CITY=<il> SOURCES_FILE=./sources/city.mjs node run.mjs` (il başına Biletinial: şehir numarasını kendi sayfasından öğrenir) + `films.mjs` (sinemalar.com; il adları sitenin `sinemasalonlari` listesindeki gibi: İstanbul = `istanbul` (Avrupa) + `istanbul-anadolu`, Afyonkarahisar = `afyon`, Sakarya = `adapazari`) → `data/c/src/<il>.json`, `data/c/<il>-films.json`. Bütün Türkiye'yi tek listede veren kaynaklar (Sanatçepte/Devlet Tiyatroları, DOB, tiyatrolar.com.tr, iTicket, Biletix Türkiye listesi — Biletix şehir seçimini dikkate almıyor) bir kez `CITY=tr` ile taranır (`data/c/_tr.json`), etkinliğin ili adresinden bulunur (`lib/cities.mjs` → `cityOfText`: il adı, büyük şehirlerde ilçe/semt/mekân). `sehirler-birlestir.mjs` → `data/c/<il>.json` (sitenin okuduğu), `data/cities.json` (il başına etkinlik ve **seansı olan** film sayısı; etkinliği ya da seansı olan il açılır — 15.11.2026'da 76/81 il) ve `data/one-cikan.json`. Bot korumalı siteler (Bubilet, Passo, Biletino, Mobilet; RA 403) diğer illerde de taranmaz. BUGECE / Radar / tiyatrolar.com.tr'nin il adresleri henüz bulunmadı. Elle eklenenler (`manual.csv`) şimdilik yalnız Ankara. Mekân konumu (harita) şimdilik yalnız Ankara (`geo.mjs` Ankara sınırı).
 - **Sinema seansları (15.11.2026 düzeltmesi):** sinemalar.com'da saat iki biçimde yazar: online bilet satan salonda düğme, satmayanda düz etiket (`<div class="chip">`); ikisi de okunur (önceden yalnızca düğme okunuyordu, Samsun Piazza gibi salonlar kayboluyordu). Saati okunamayan kart olursa `films.json` notlarına "DİKKAT" düşer. Yalnızca seansları yenilemek için `sehirler.yml` → `film: true`.
